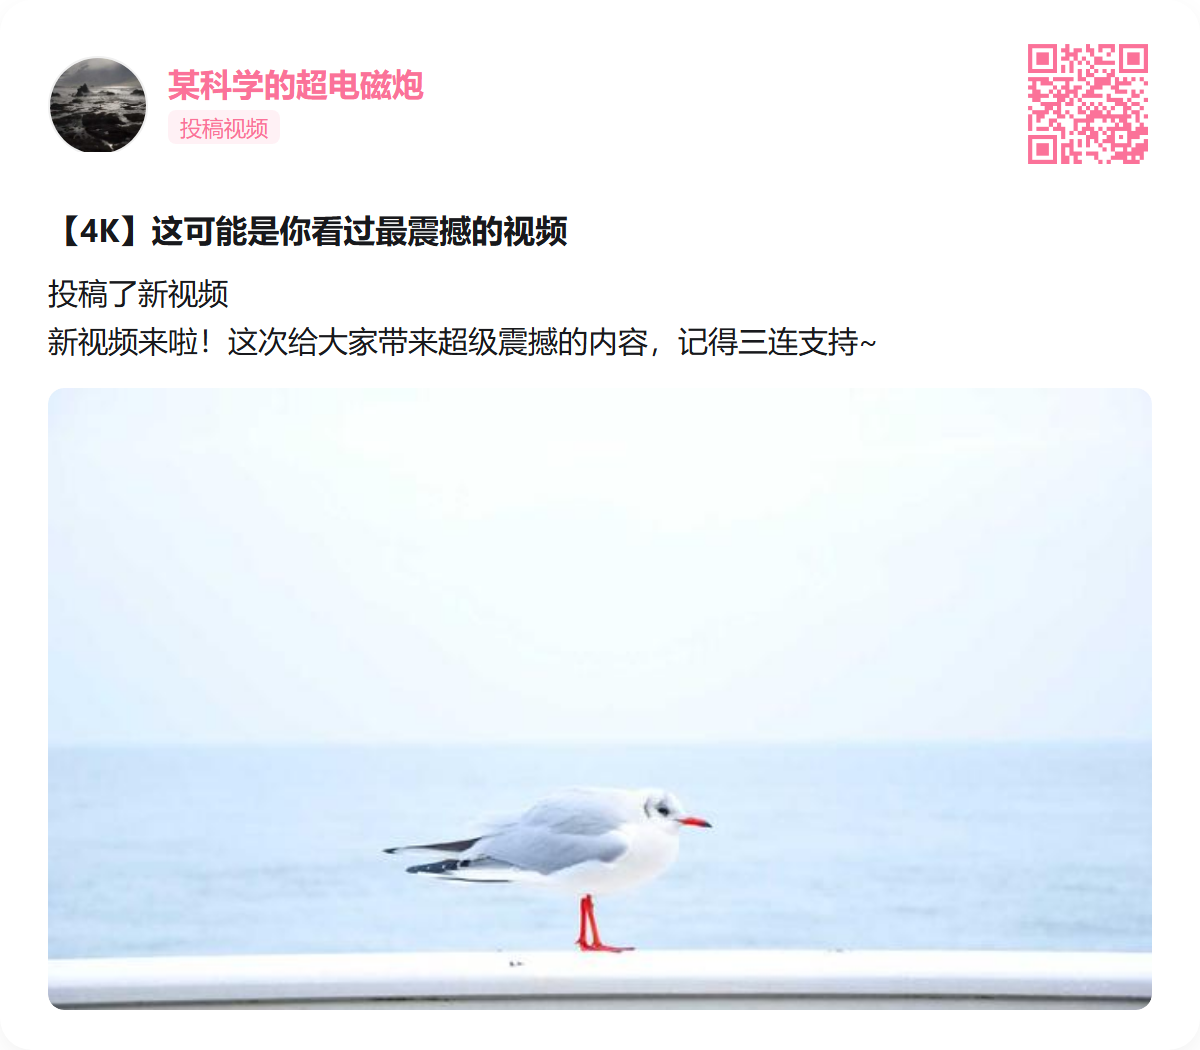
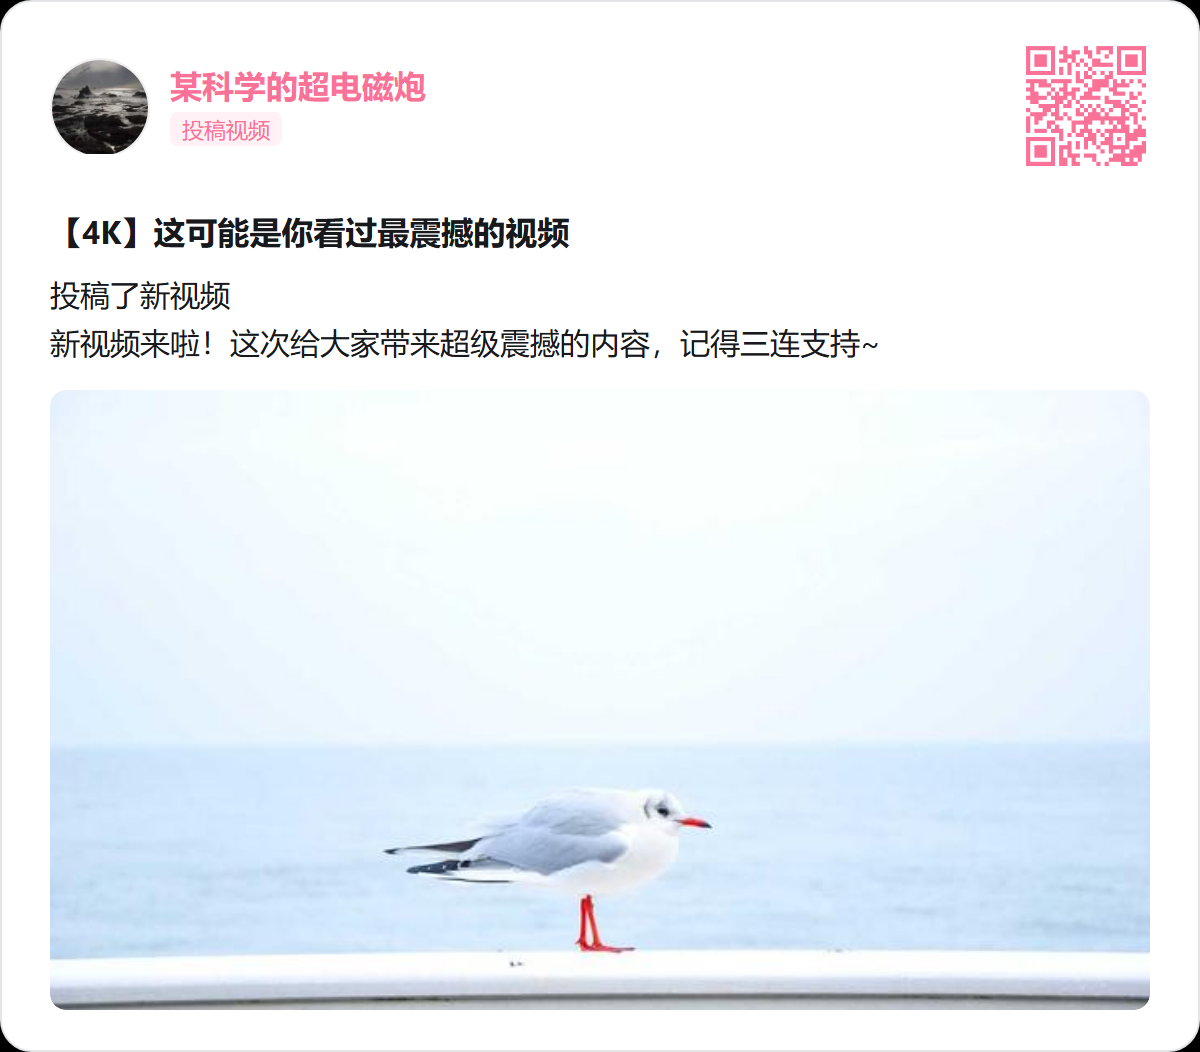
恢复卡片描边并为圆角角隙设置独立背景色

diff --git a/assets/template_2.html b/assets/template_2.html
@@ -345,11 +345,12 @@
                 box-shadow: 0 2px 6px rgba(35, 173, 229, 0.15);
                 letter-spacing: 0;
             }
-        {% if show_border %}
-            .card { outline: 1px solid #ffd0df; }
-        {% else %}
-            body { padding: 0; background: transparent; min-height: 0; }
-            .card { margin: 0; border: none !important; }
+        {% if show_outline | default(true) %}
+            .card { border: 1px solid #ffd0df; box-sizing: border-box; }
+        {% endif %}
+        {% if not show_border %}
+            body { padding: 0; background: {{ corner_background | default('#000000', true) }}; min-height: 0; }
+            .card { margin: 0; box-shadow: none; }
         {% endif %}
 </style>
     </head>

diff --git a/assets/template_bilibili.html b/assets/template_bilibili.html
@@ -42,11 +42,12 @@
     .grid-1 img { max-height:360px; object-fit:contain; aspect-ratio:auto; background:transparent; }
     .grid-2,.grid-4 { grid-template-columns:repeat(2,1fr); }
     .grid-3,.grid-5,.grid-6,.grid-7,.grid-8,.grid-9 { grid-template-columns:repeat(3,1fr); }
-{% if show_border %}
-.card { outline: 1px solid #c7e5ef; }
-{% else %}
-body { padding: 0; background: transparent; min-height: 0; }
-.card { margin: 0; border: none !important; }
+{% if show_outline | default(true) %}
+.card { border: 1px solid #c7e5ef; }
+{% endif %}
+{% if not show_border %}
+body { padding: 0; background: {{ corner_background | default('#000000', true) }}; min-height: 0; }
+.card { margin: 0; box-shadow: none; }
 {% endif %}
 </style>
 </head>

diff --git a/assets/template_simple.html b/assets/template_simple.html
@@ -255,11 +255,12 @@
         border-radius: 12px;
         text-decoration: none;
     }
-{% if show_border %}
-.card { outline: 1px solid #e3e5e7; }
-{% else %}
-body { padding: 0; background: transparent; min-height: 0; }
-.card { margin: 0; border: none !important; }
+{% if show_outline | default(true) %}
+.card { border: 1px solid #e3e5e7; box-sizing: border-box; }
+{% endif %}
+{% if not show_border %}
+body { padding: 0; background: {{ corner_background | default('#000000', true) }}; min-height: 0; }
+.card { margin: 0; box-shadow: none; }
 {% endif %}
 </style>
 </head>

diff --git a/assets/template_dark.html b/assets/template_dark.html
@@ -41,9 +41,10 @@
     .grid-2,.grid-4 { grid-template-columns:repeat(2,1fr); }
     .grid-3,.grid-5,.grid-6,.grid-7,.grid-8,.grid-9 { grid-template-columns:repeat(3,1fr); }
 {% if not show_border %}
-body { padding: 0; background: transparent; min-height: 0; }
-.card { margin: 0; border: none !important; }
+body { padding: 0; background: {{ corner_background | default('#000000', true) }}; min-height: 0; }
+.card { margin: 0; box-shadow: none; }
 {% endif %}
+{% if not (show_outline | default(true)) %}.card { border: none !important; }{% endif %}
 </style>
 </head>
 <body>

diff --git a/assets/template_kirby.html b/assets/template_kirby.html
@@ -51,9 +51,10 @@
     .grid-2,.grid-4 { grid-template-columns:repeat(2,1fr); }
     .grid-3,.grid-5,.grid-6,.grid-7,.grid-8,.grid-9 { grid-template-columns:repeat(3,1fr); }
 {% if not show_border %}
-body { padding: 0; background: transparent; min-height: 0; }
-.card { margin: 0; border: none !important; }
+body { padding: 0; background: {{ corner_background | default('#000000', true) }}; min-height: 0; }
+.card { margin: 0; box-shadow: none; }
 {% endif %}
+{% if not (show_outline | default(true)) %}.card { border: none !important; }{% endif %}
 </style>
 </head>
 <body>

diff --git a/assets/template_sakura.html b/assets/template_sakura.html
@@ -44,9 +44,10 @@
     .grid-2,.grid-4 { grid-template-columns:repeat(2,1fr); }
     .grid-3,.grid-5,.grid-6,.grid-7,.grid-8,.grid-9 { grid-template-columns:repeat(3,1fr); }
 {% if not show_border %}
-body { padding: 0; background: transparent; min-height: 0; }
-.card { margin: 0; border: none !important; }
+body { padding: 0; background: {{ corner_background | default('#000000', true) }}; min-height: 0; }
+.card { margin: 0; box-shadow: none; }
 {% endif %}
+{% if not (show_outline | default(true)) %}.card { border: none !important; }{% endif %}
 </style>
 </head>
 <body>

diff --git a/assets/template_1.html b/assets/template_1.html
@@ -481,9 +481,10 @@
             background: linear-gradient(45deg, #e8f5e9, #f3e5f5);
         }
     {% if not show_border %}
-        body { padding: 0; background: transparent; min-height: 0; }
-        .dynamic-card { margin: 0; border: none !important; }
+        body { padding: 0; background: {{ corner_background | default('#000000', true) }}; min-height: 0; }
+        .dynamic-card { margin: 0; box-shadow: none; }
     {% endif %}
+    {% if not (show_outline | default(true)) %}.dynamic-card { border: none !important; }{% endif %}
 </style>
     </head>
 

diff --git a/dev/check_card_templates.py b/dev/check_card_templates.py
@@ -1,4 +1,4 @@
-"""Render previews and verify the frame switch with local Chromium."""
+"""Check whole-page screenshots, corner colors and independent outline/spacing settings."""
 
 import argparse
 import base64
@@ -29,8 +29,10 @@ def main():
         for style in ([args.style] if args.style else CARD_TEMPLATES):
             data = MockDataGenerator.video_dynamic(user_index=0)
             data["pendant"] = ""
-            for border in (False, True):
+            for border, outline in ((False, True), (False, False), (True, True), (True, False)):
                 data["show_border"] = border
+                data["show_outline"] = outline
+                data["corner_background"] = "#000000"
                 width = (700 if style == "template_1" else 630) if border else (680 if style == "template_1" else 600)
                 page = browser.new_page(viewport={"width": width, "height": 1}, device_scale_factor=2)
                 page.set_content(Template(Path(get_template_path(style)).read_text(encoding="utf-8")).render(**data))
@@ -43,33 +45,39 @@ def main():
                             padding:b.paddingTop, background:b.backgroundColor};
                 }""")
                 assert state["width"] > 400 and state["height"] > 150, state
+                assert (state["border"] != "0px") is outline, (style, outline, state)
                 if border:
-                    assert state["x"] > 0 and (state["border"] != "0px" or state["outline"] != "0px"), (style, state)
+                    assert state["x"] > 0, (style, state)
                 else:
-                    assert state["x"] == 0 and state["y"] == 0 and state["border"] == "0px", (style, state)
-                    assert state["padding"] == "0px" and state["background"] == "rgba(0, 0, 0, 0)", (style, state)
+                    assert state["x"] == 0 and state["y"] == 0, (style, state)
+                    assert state["padding"] == "0px" and state["background"] == "rgb(0, 0, 0)", (style, state)
                     assert state["width"] == width, (style, state)
-                    screenshot = page.screenshot(full_page=True, omit_background=True)
+                    screenshot = page.screenshot(full_page=True)
                     with Image.open(io.BytesIO(screenshot)) as bitmap:
                         assert bitmap.width == width * 2, (style, bitmap.size)
                         assert abs(bitmap.height - state["height"] * 2) <= 2, (style, bitmap.size, state)
                         assert any(low < high for low, high in bitmap.convert("RGB").getextrema()), style
-                    if args.update_previews:
+                        assert bitmap.convert("RGB").getpixel((1, 1)) == (0, 0, 0), (style, "top-left corner")
+                        assert bitmap.convert("RGB").getpixel((bitmap.width - 2, 1)) == (0, 0, 0), (style, "top-right corner")
+                    jpeg = page.screenshot(full_page=True, type="jpeg", quality=95)
+                    with Image.open(io.BytesIO(jpeg)) as bitmap:
+                        assert max(bitmap.getpixel((1, 1))) < 10, (style, "JPEG corner color")
+                    if args.update_previews and outline:
                         name = names.get(style, "card_" + style)
                         (ROOT / "assets/preview" / (name + ".png")).write_bytes(screenshot)
-                print(f"PASS {style} frame={border}: {state['width']}x{state['height']}", flush=True)
+                print(f"PASS {style} frame={border} outline={outline}: {state['width']}x{state['height']}", flush=True)
                 page.close()
         if args.style:
             browser.close()
             return
         data.update(name="爱丽丝", avatar=avatar, type="LIVE_ON", title="周末直播：游戏与创作",
-                    text="订阅的 UP 主开播了！<br>分区：游戏 · 人气：8.6万", show_border=False,
+                    text="订阅的 UP 主开播了！<br>分区：游戏 · 人气：8.6万", show_border=False, show_outline=True,
                     url="https://live.bilibili.com/123456", qrcode=create_qrcode_sync("https://live.bilibili.com/123456"))
         page = browser.new_page(viewport={"width":600,"height":1}, device_scale_factor=2)
         page.set_content(Template(Path(get_template_path("bilibili")).read_text(encoding="utf-8")).render(**data))
         page.wait_for_function("Array.from(document.images).every(i => i.complete && i.naturalWidth > 0)", timeout=30000)
         if args.update_previews:
-            page.screenshot(full_page=True, omit_background=True, path=str(ROOT / "assets/preview/live_bilibili.png"))
+            page.screenshot(full_page=True, path=str(ROOT / "assets/preview/live_bilibili.png"))
         print("PASS live preview", flush=True)
         browser.close()
 

diff --git a/tests/test_subscription_regressions.py b/tests/test_subscription_regressions.py
@@ -182,7 +182,22 @@ def test_renderer_uses_card_width_when_frame_is_disabled(style, frame):
     assert asyncio.run(renderer.render_dynamic(RenderPayload(name="爱丽丝"))) == output
     call = star.html_render.await_args.kwargs
     assert call["data"]["show_border"] is frame
+    assert call["data"]["show_outline"] is True
+    assert call["data"]["corner_background"] == "#000000"
     if frame:
         assert "viewport_width" not in call["options"]
     else:
         assert call["options"]["viewport_width"] == (680 if style == "template_1" else 600)
+
+
+@pytest.mark.parametrize("color,expected", [("#FFFFFF", "#FFFFFF"), (" #112233 ", "#112233"),
+                                           ("red", "#000000"), ("#000; color: red", "#000000"),
+                                           (None, "#000000")])
+def test_outline_is_independent_and_corner_color_is_validated(color, expected):
+    output = str(Path(__file__).resolve().parents[1] / "assets" / "Astrbot.png")
+    star = SimpleNamespace(cfg={"card_border": False, "card_outline": False, "card_corner_background": color},
+                           html_render=AsyncMock(return_value=output))
+    renderer = Renderer(star, rai=True, style="kirby")
+    assert asyncio.run(renderer.render_dynamic(RenderPayload())) == output
+    assert star.html_render.await_args.kwargs["data"]["show_outline"] is False
+    assert star.html_render.await_args.kwargs["data"]["corner_background"] == expected

diff --git a/main.py b/main.py
@@ -64,7 +64,7 @@ from .tools.bili_hot_video import BiliSearchHotVideosTool
 from .tools.bili_user_dynamics import BiliUserDynamicsTool
 
 
-@register("astrbot_plugin_bilibili_pro", "Whereis-Alice (fork) · Soulter & Flartiny", "哔哩哔哩动态推送、视频/直播查询、番剧推荐，多卡片皮肤增强版", "v1.7.2-pro.3", "https://github.com/Whereis-Alice/astrbot_plugin_bilibili_pro")
+@register("astrbot_plugin_bilibili_pro", "Whereis-Alice (fork) · Soulter & Flartiny", "哔哩哔哩动态推送、视频/直播查询、番剧推荐，多卡片皮肤增强版", "v1.7.2-pro.4", "https://github.com/Whereis-Alice/astrbot_plugin_bilibili_pro")
 class Main(Star):
     def __init__(self, context: Context, config: AstrBotConfig) -> None:
         super().__init__(context)

diff --git a/services/renderer.py b/services/renderer.py
@@ -1,5 +1,6 @@
 import asyncio
 import os
+import re
 from typing import Any, Dict
 
 from astrbot.api import logger
@@ -81,6 +82,14 @@ class Renderer:
             context["show_border"] = bool(self.star.cfg.get("card_border", False))
         except Exception:
             context["show_border"] = False
+
+        context["show_outline"] = bool(self.star.cfg.get("card_outline", True))
+        corner_background = str(self.star.cfg.get("card_corner_background", "#000000") or "").strip()
+        context["corner_background"] = (
+            corner_background
+            if re.fullmatch(r"#[0-9a-fA-F]{6}", corner_background)
+            else "#000000"
+        )
 
         if not context["show_border"]:
             target_style = style or self.style

diff --git a/README.md b/README.md
@@ -9,7 +9,7 @@
 为 [AstrBot](https://github.com/AstrBotDevs/AstrBot) 打造的全能哔哩哔哩插件，内置 7 款精美卡片皮肤。
 
 ![AstrBot](https://img.shields.io/badge/AstrBot-%E2%89%A5%204.26.0-00a1d6?style=flat-square)
-![version](https://img.shields.io/badge/version-v1.7.2--pro.3-fb7299?style=flat-square)
+![version](https://img.shields.io/badge/version-v1.7.2--pro.4-fb7299?style=flat-square)
 ![license](https://img.shields.io/badge/license-MIT-4c9a2a?style=flat-square)
 
 </div>
@@ -92,10 +92,14 @@ plugin i https://github.com/Whereis-Alice/astrbot_plugin_bilibili_pro
 | 配置项 | 默认值 | 说明 |
 | :--- | :--- | :--- |
 | `renderer_template` | `template_2` | 全局卡片皮肤，也可用 `/bili_card_style` 切换。 |
-| `card_border`（卡片外框） | 关闭 | 关闭时移除卡片外围留白、背景与描边，保留卡片圆角；开启时恢复带留白的外框效果。适用于全部 7 款皮肤。 |
+| `card_border`（卡片外围留白） | 关闭 | 关闭时截图紧贴卡片，不保留外围留白；开启时恢复皮肤的外围背景和留白。 |
+| `card_outline`（卡片描边） | 开启 | 保留皮肤原有描边，例如卡比皮肤的浅粉描边；与外围留白独立，可单独关闭。 |
+| `card_corner_background`（圆角外侧背景色） | `#000000` | 没有外围留白时，仅圆角外侧露出的角隙使用此颜色，默认黑色。支持六位十六进制颜色，例如 `#FFFFFF`（白色）；不会改变卡片内部颜色。 |
 | `rai`（图片推送） | 开启 | 关闭后以纯文本发送动态和直播通知，外观设置不再影响推送。 |
 
 订阅成功、视频查询与直播通知使用的默认头像为**爱丽丝**，默认显示名也是**爱丽丝**；UP 主动态卡片仍显示动态作者的头像和名称。已有自定义头像会继续使用，可在订阅管理页点击「恢复默认」切回爱丽丝头像。修改配置后保存并重载插件，使外观设置生效。
+
+默认外观为**无外围留白 + 保留描边 + 黑色角隙**，适用于全部 7 款皮肤。想恢复带粉色外围背景的卡比卡片，开启「卡片外围留白」即可。
 
 ## 📖 使用说明
 
